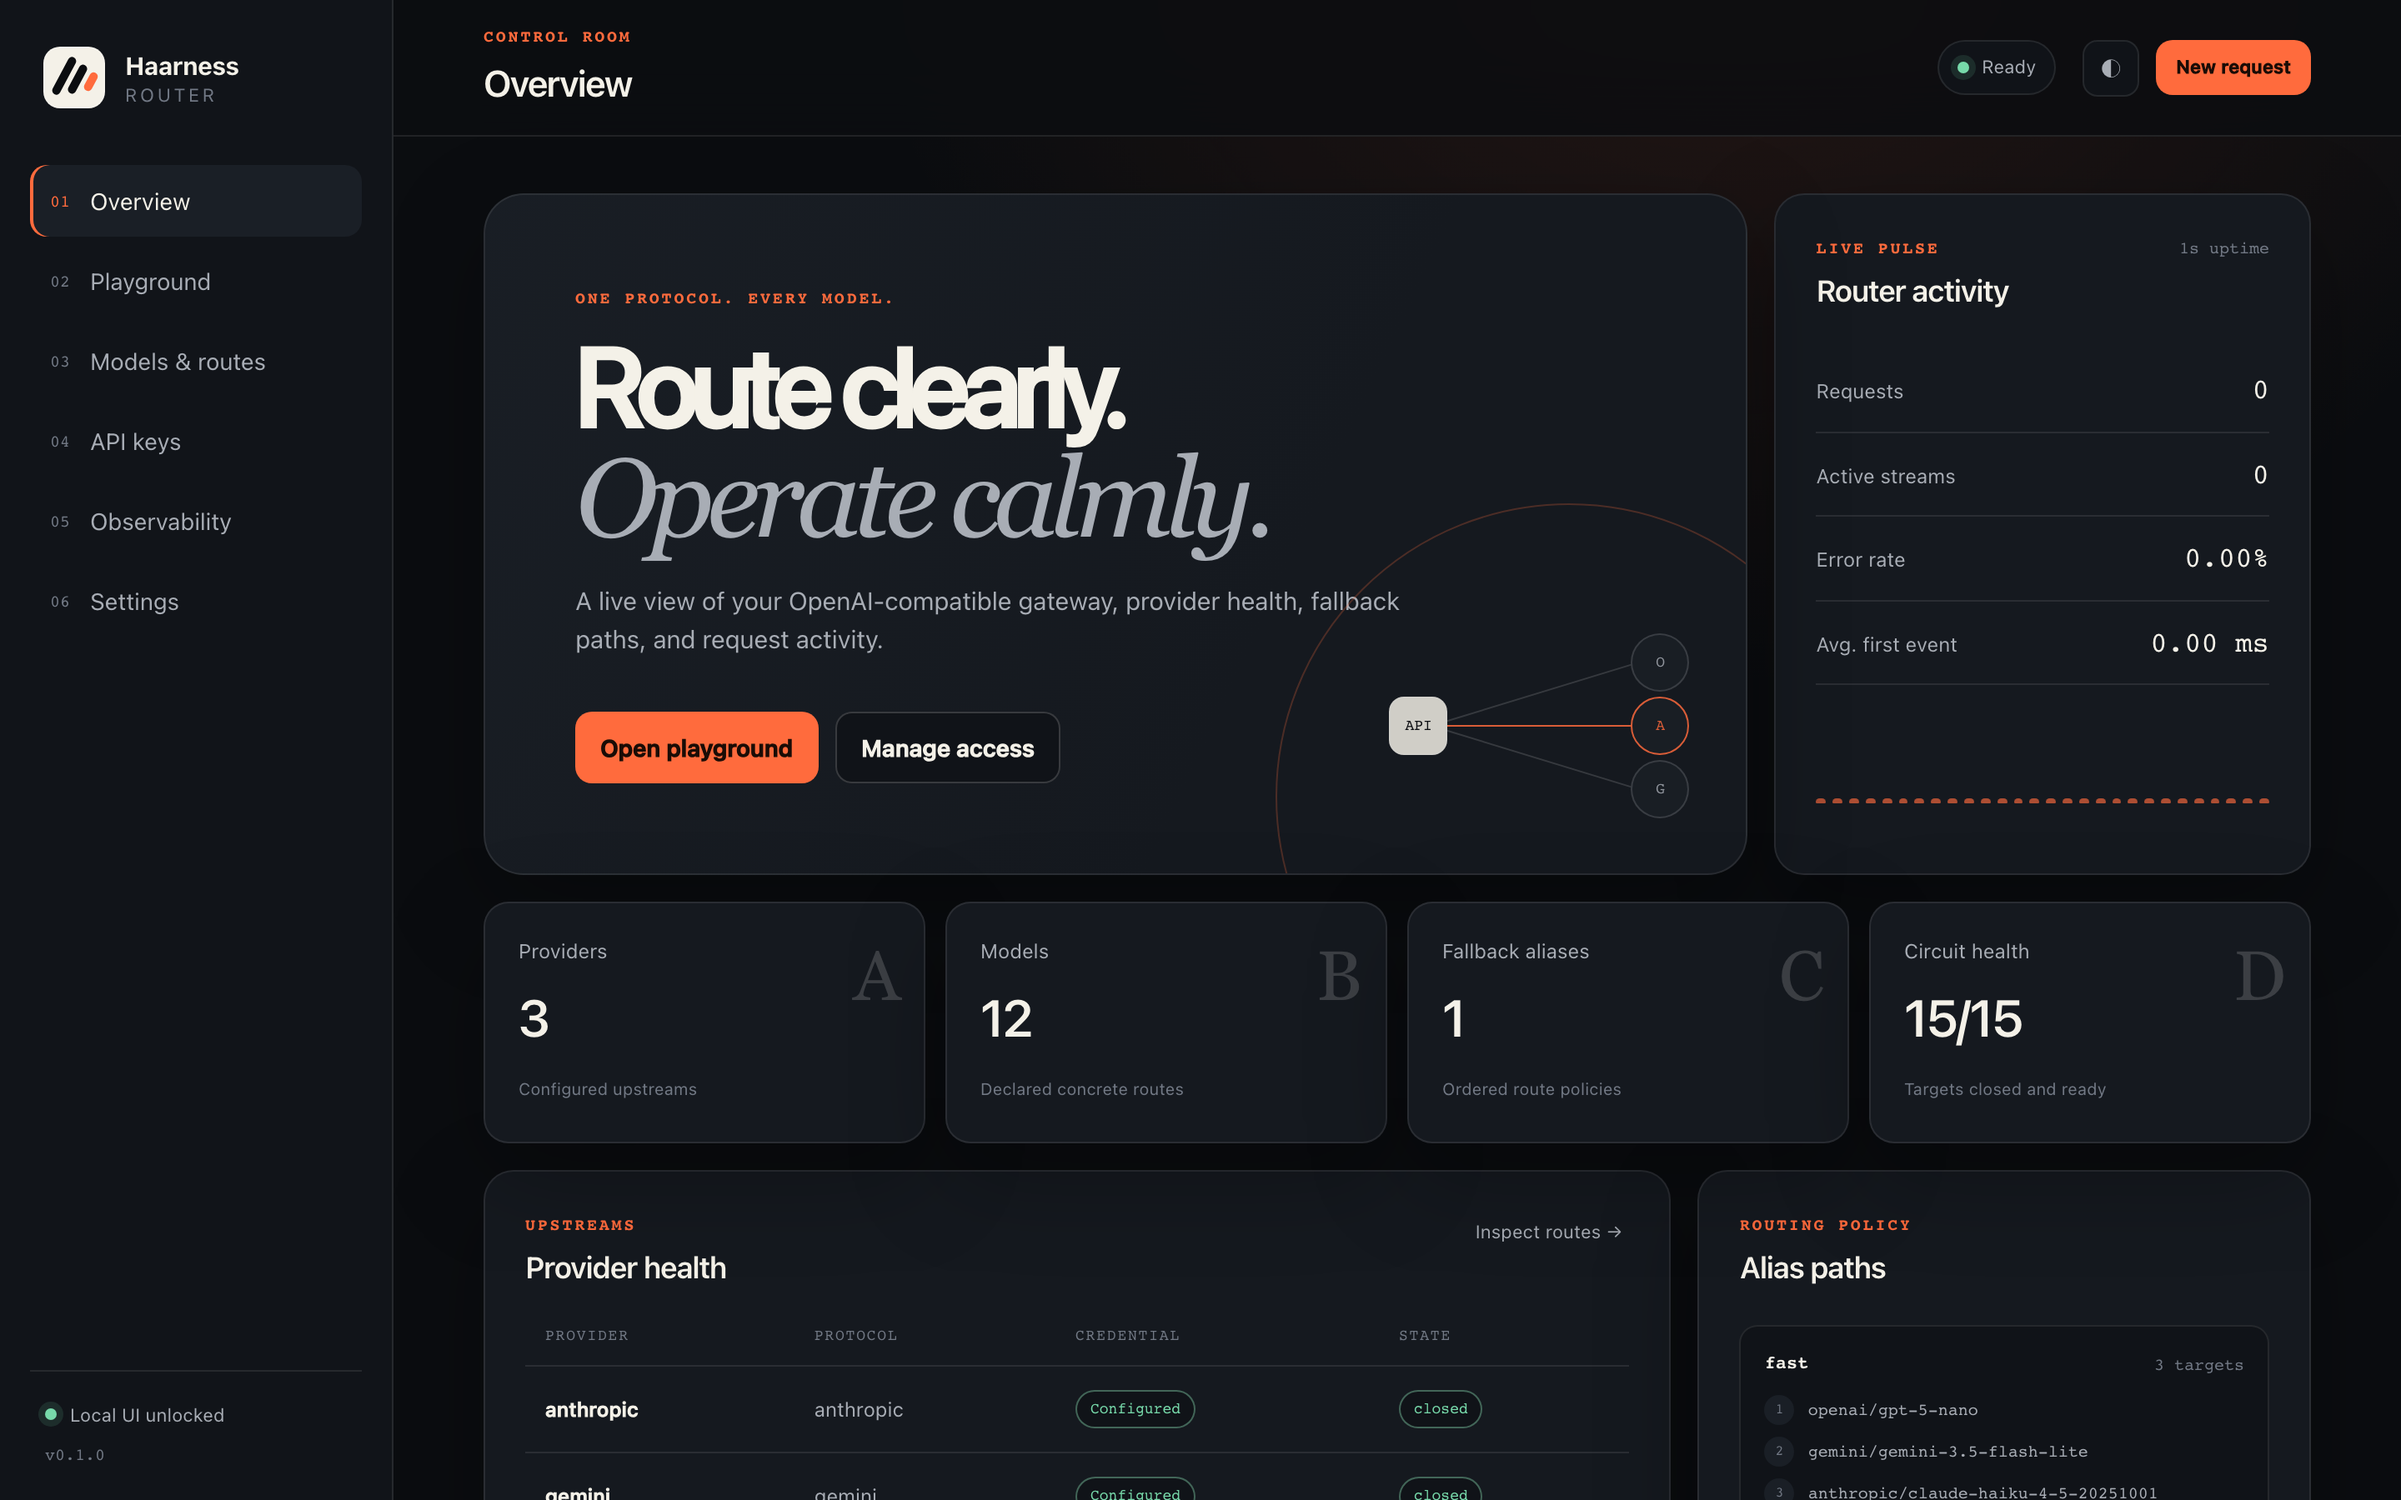
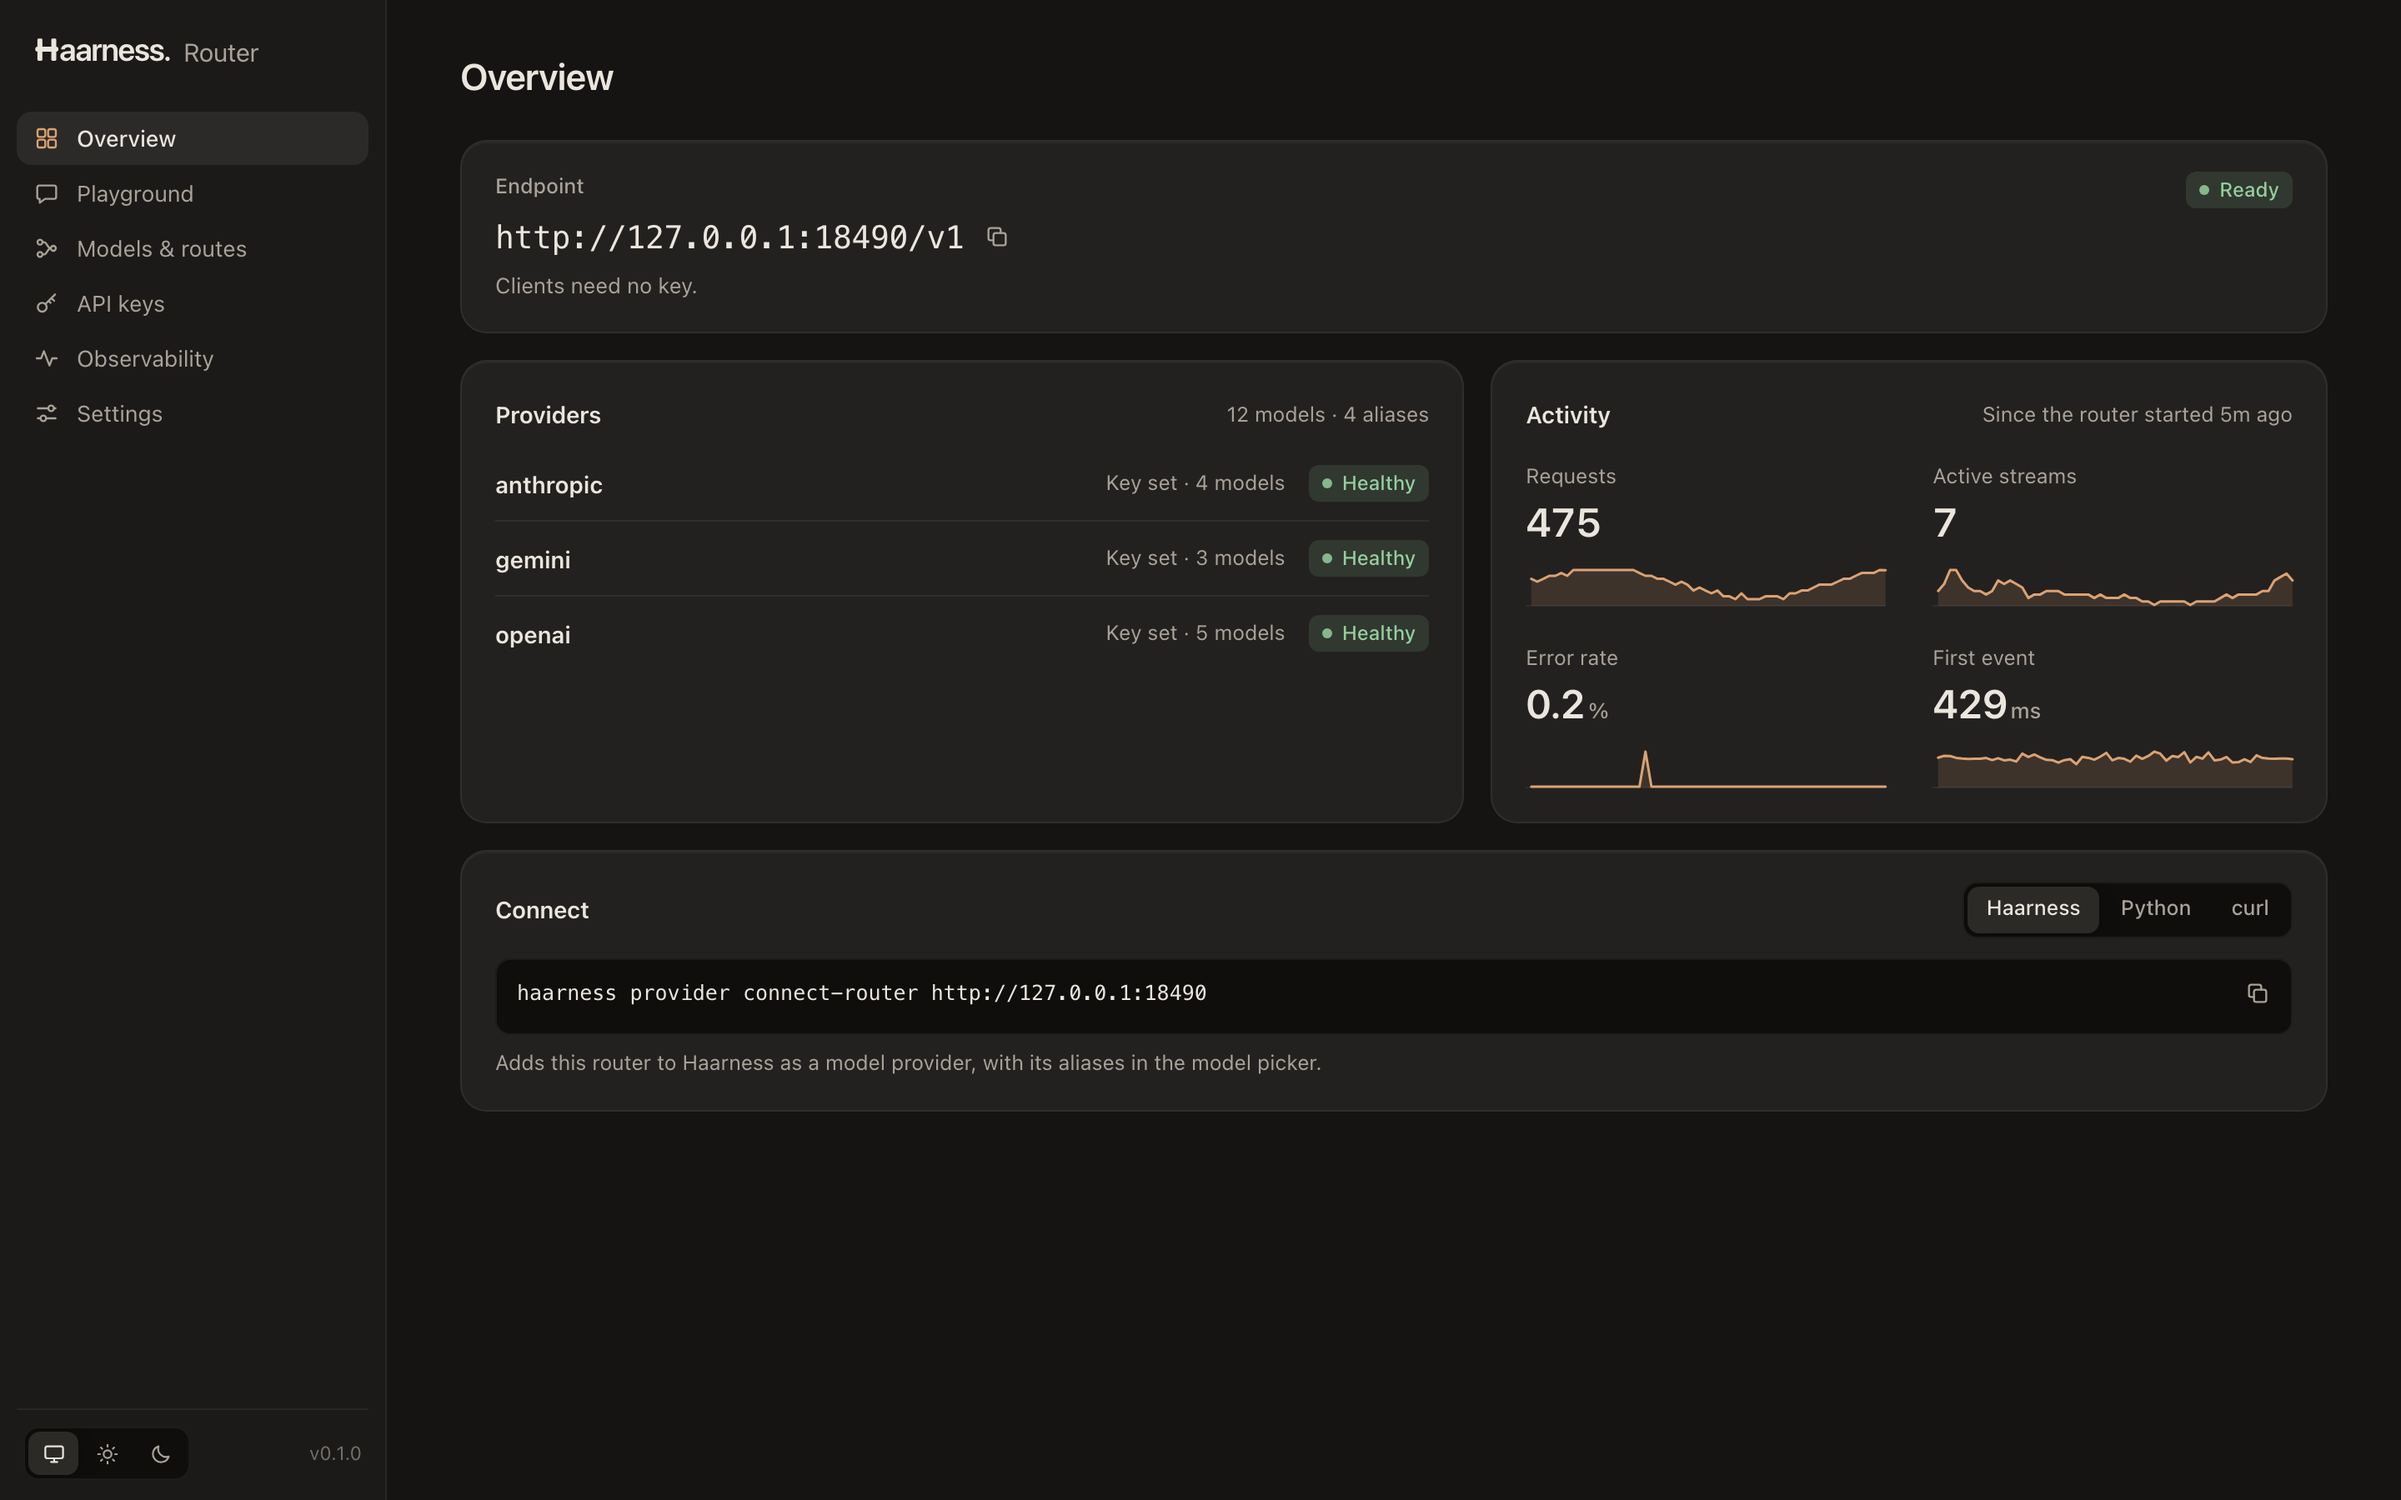
The Web UI page and the README pictures show the redesigned dashboard
docs/web-ui.md describes each view as it now is, the one-click key a tab can create when router
authentication is on, what the browser keeps in local and session storage, and that the page loads
nothing from other origins. The README's light and dark pictures are the new Overview at 2880 by 1800.

diff --git a/docs/web-ui.md b/docs/web-ui.md
@@ -22,20 +22,38 @@ haarness-router --config config.toml \
 ```
 
 When `basic_auth_username_env` and `basic_auth_password_env` are set, the browser asks for those
-credentials first. The playground and the metrics view also need a router key when router authentication is
-on: paste a configured key or create a runtime key on **API keys**. The maintainers' launcher,
-`scripts/run-stackforward`, prepares both in its private `.env` (see [development](development.md)).
+credentials first. When router authentication is on, the playground and the activity figures need a router
+key as well: **Create one for this tab** makes a runtime key and starts using it in one click, or enter a
+configured key under **Settings**. The maintainers' launcher, `scripts/run-stackforward`, prepares both in
+its private `.env` (see [development](development.md)).
 
 The interface has six views:
 
-- **Overview** — providers, credential readiness, aliases, circuit states and live request activity.
-- **Playground** — streaming and non-streaming chat with system messages, reasoning controls, function
-  tools, structured output, images, PDFs and files, audio, video and an optional per-request upstream key.
-- **Models & routes** — declared model capabilities and each alias's ordered targets.
-- **API keys** — process-local router-key creation, last use and revocation.
-- **Observability** — parsed Prometheus metrics, route health, recent playground activity and the raw
-  exposition.
-- **Settings** — a safe configuration summary with no provider credentials or secret variable names.
+- **Overview** — the endpoint with one-click copy and whether the router is ready; each provider with its
+  key and circuit state; the model and alias counts; live activity (requests, active streams, error rate and
+  average time to the first event, each with a line of what the page sampled in the last minutes); and the command
+  that connects Haarness, the OpenAI SDK line and a curl request. With no provider yet it lists the provider
+  key variables to set before restarting the router.
+- **Playground** — a conversation through the router's own `/v1/chat/completions`. A searchable picker
+  holds the aliases and every declared or reported model. Answers stream by default (**Stop** or Esc ends
+  one), reasoning sits collapsed above the answer, and tokens, time to the first token and total time follow
+  it. **Options** holds the system message, reasoning effort (the efforts the model reports, when it does),
+  streaming, temperature, the output token limit, function tools (a tool call is answered inline with its
+  result), structured output and a per-request provider key. The paperclip attaches images, PDFs, MP3 or WAV
+  audio and video from a file, by pasting or dropping one, or from an HTTPS URL.
+- **Models & routes** — each alias's ordered targets with their circuit state, and the models of each
+  provider with their capabilities; **Try** opens one in the playground.
+- **API keys** — process-local router keys: create one, copy it while it is shown, use it in the playground,
+  see when each was last used, and revoke one with an inline confirmation.
+- **Observability** — totals, traffic per route with its circuit state, upstream failures by cause, this
+  tab's playground requests and the raw Prometheus exposition.
+- **Settings** — this tab's router key, the access settings, the endpoints and the version, with no provider
+  credentials or secret variable names.
+
+The dashboard follows the system's light or dark appearance until one is picked at the foot of the sidebar.
+That choice, the playground's model and its options are kept in the browser's `localStorage`; a provider
+key typed into the playground never is. The page loads nothing from other origins, and its
+Content-Security-Policy allows only its own script and stylesheet.
 
 ## Configuration
 
@@ -67,8 +85,8 @@ router  -- provider key ------> upstream provider
 
 Bootstrap router keys come from the configured environment variables and cannot be listed or revoked. The UI shows only their count.
 
-A runtime router key is displayed once after creation. The process immediately stores only its SHA-256 digest. **Copy & use in playground** copies it and selects it for the playground; the browser keeps that selection in `sessionStorage`, not persistent local storage. Runtime keys and their metadata disappear when the router restarts.
+A runtime router key is displayed once after creation. The process immediately stores only its SHA-256 digest. **Use in playground** selects it for this tab's playground and activity; the browser keeps that selection in `sessionStorage`, not persistent local storage, and forgets it when the key is revoked. Runtime keys and their metadata disappear when the router restarts.
 
-The optional playground upstream-key field sends `X-Upstream-API-Key` for that request only, so it works only when `auth.allow_upstream_key_header = true`. It is not saved, and the router accepts it only for exact `provider/model` targets. It is translated to the provider's configured authentication scheme and cannot fall back to a server-owned provider key.
+The playground's optional provider-key field sends `X-Upstream-API-Key` for that request only, so it works only when `auth.allow_upstream_key_header = true`. It is not saved, and the router accepts it only for exact `provider/model` targets. It is translated to the provider's configured authentication scheme and cannot fall back to a server-owned provider key.
 
 The Web UI never supports reading or editing provider credentials. Change provider secret environment variables outside the process and restart the router to rotate them.

diff --git a/README.md b/README.md
@@ -26,7 +26,7 @@ user database, provider marketplace or prompt storage** — it routes, and that 
 <p align="center">
   <picture>
     <source media="(prefers-color-scheme: dark)" srcset=".github/assets/web-ui-dark.png">
-    <img alt="The Haarness Router dashboard: provider health, models, fallback aliases, circuit health and live router activity" src=".github/assets/web-ui-light.png" width="100%">
+    <img alt="The Haarness Router dashboard: the endpoint, each provider's key and circuit state, live activity and the commands to connect a client" src=".github/assets/web-ui-light.png" width="100%">
   </picture>
 </p>
 
